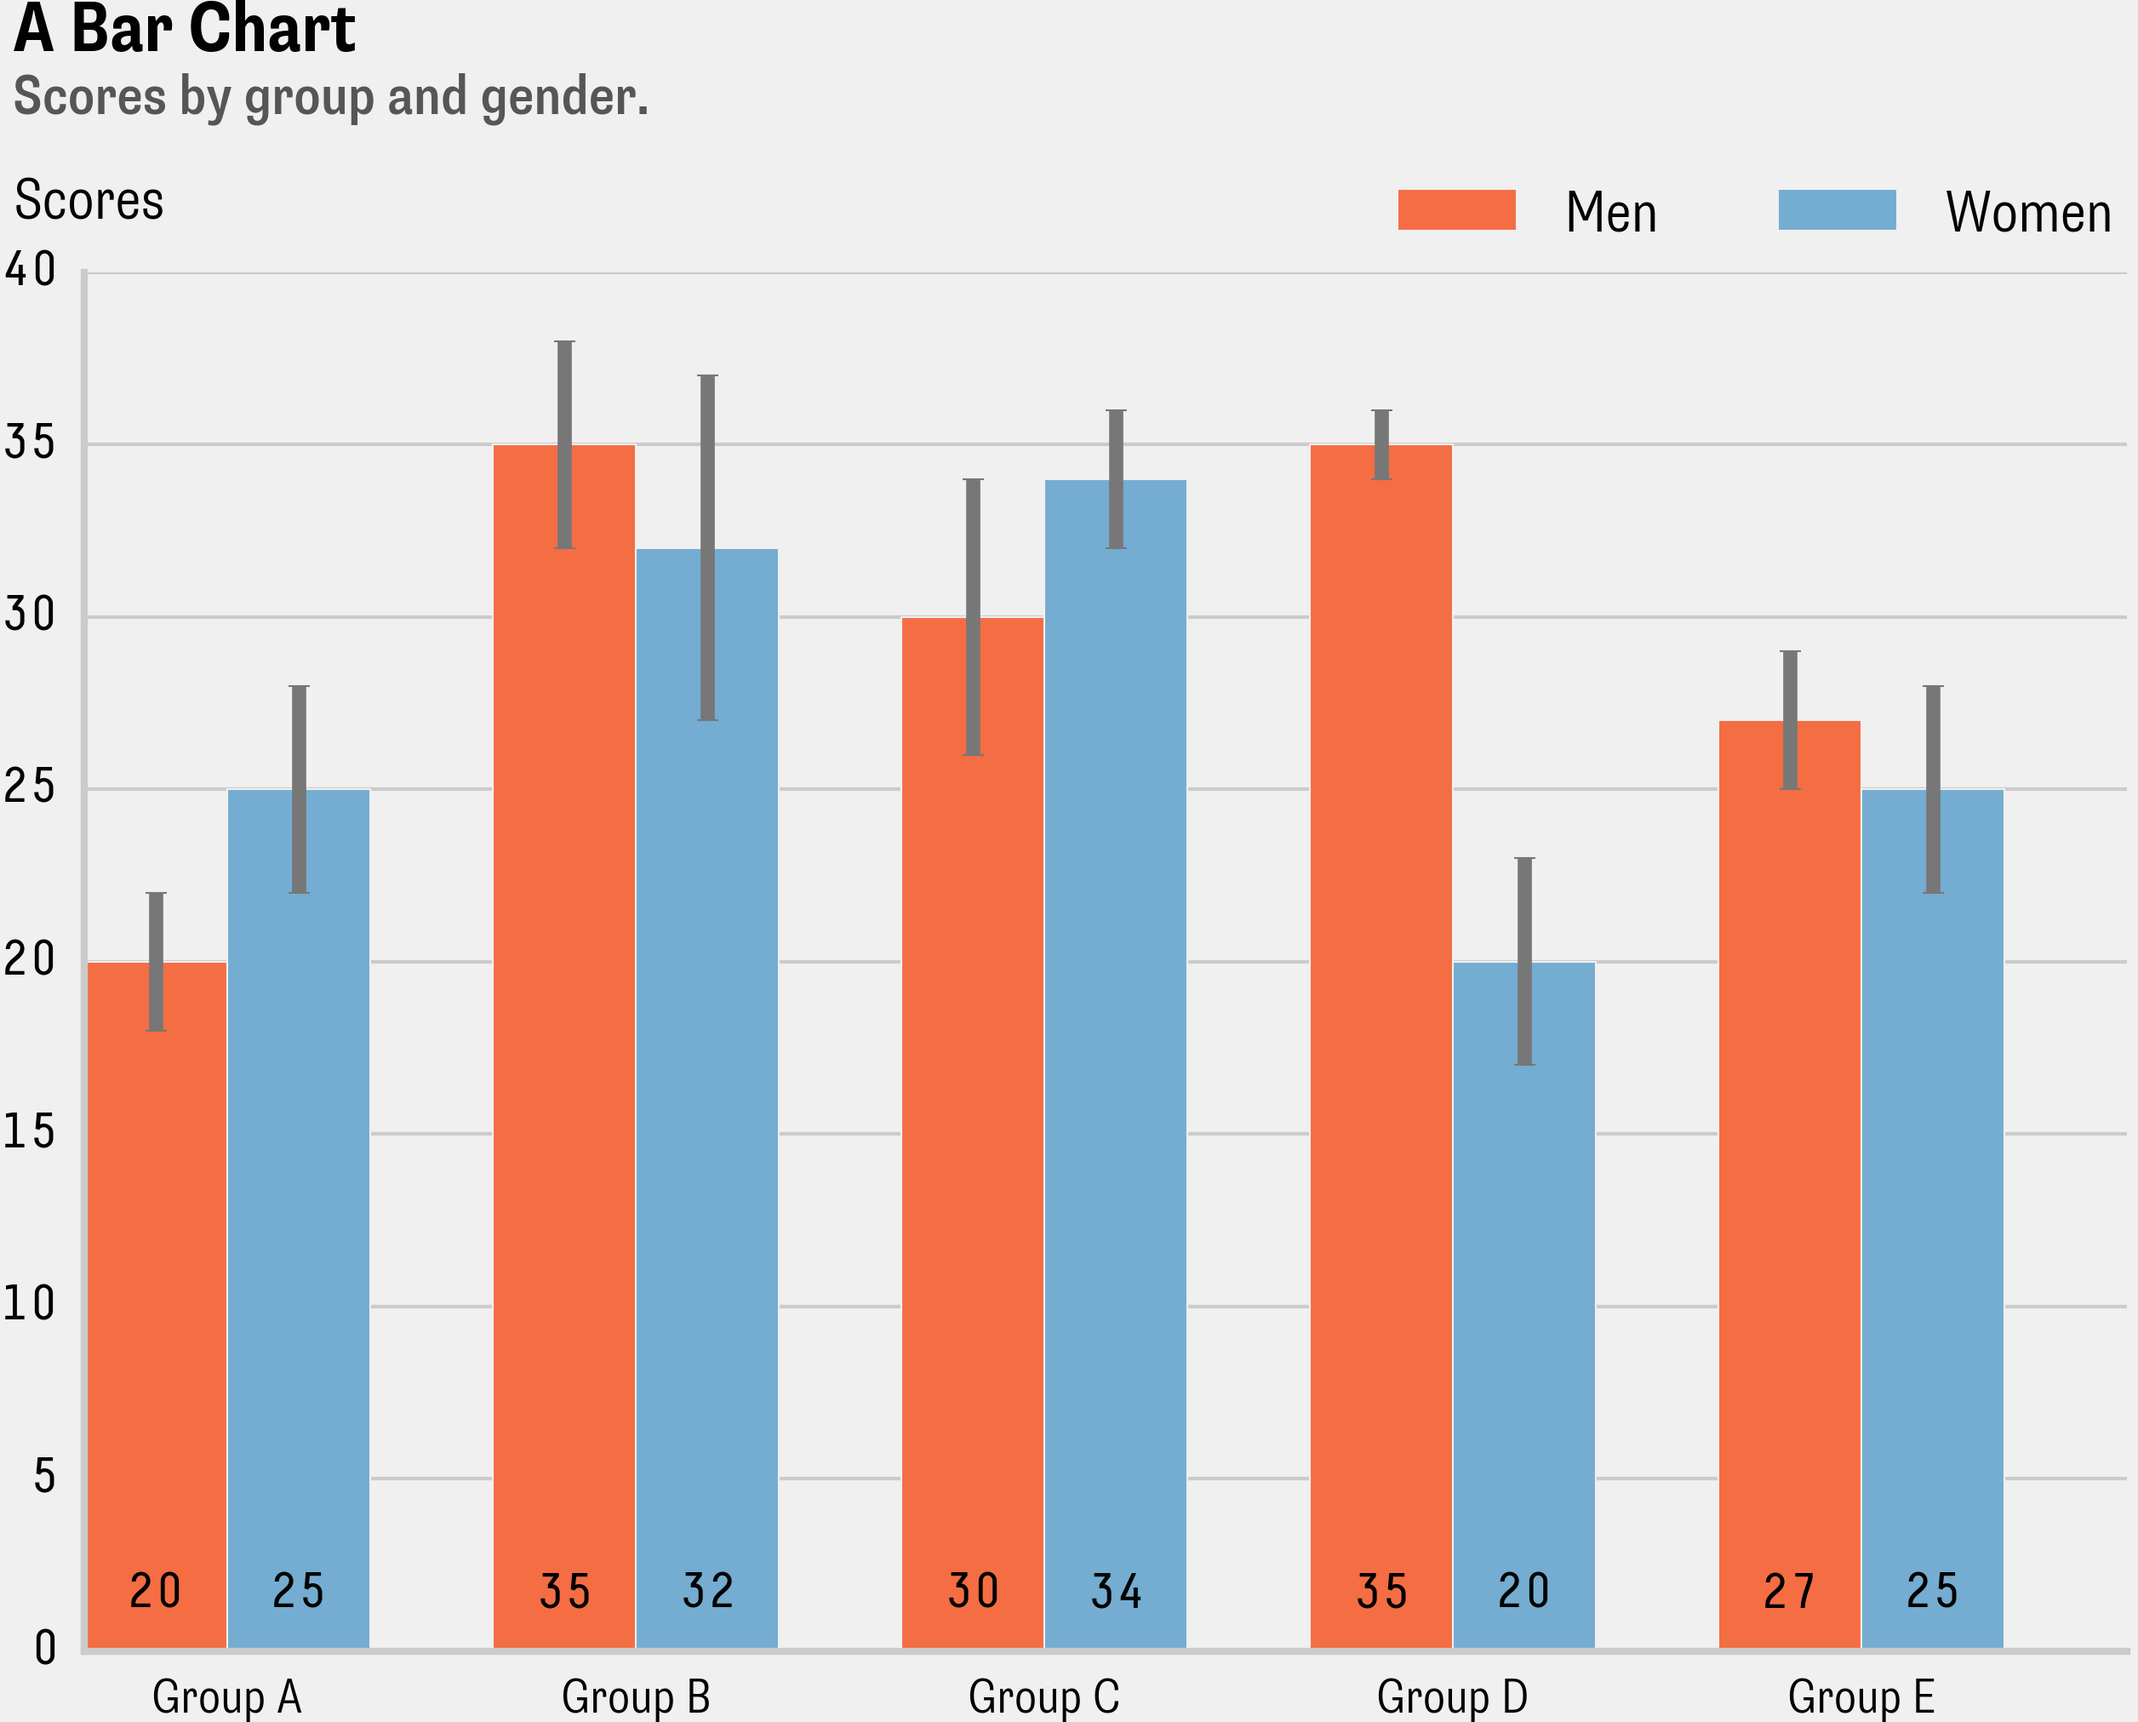
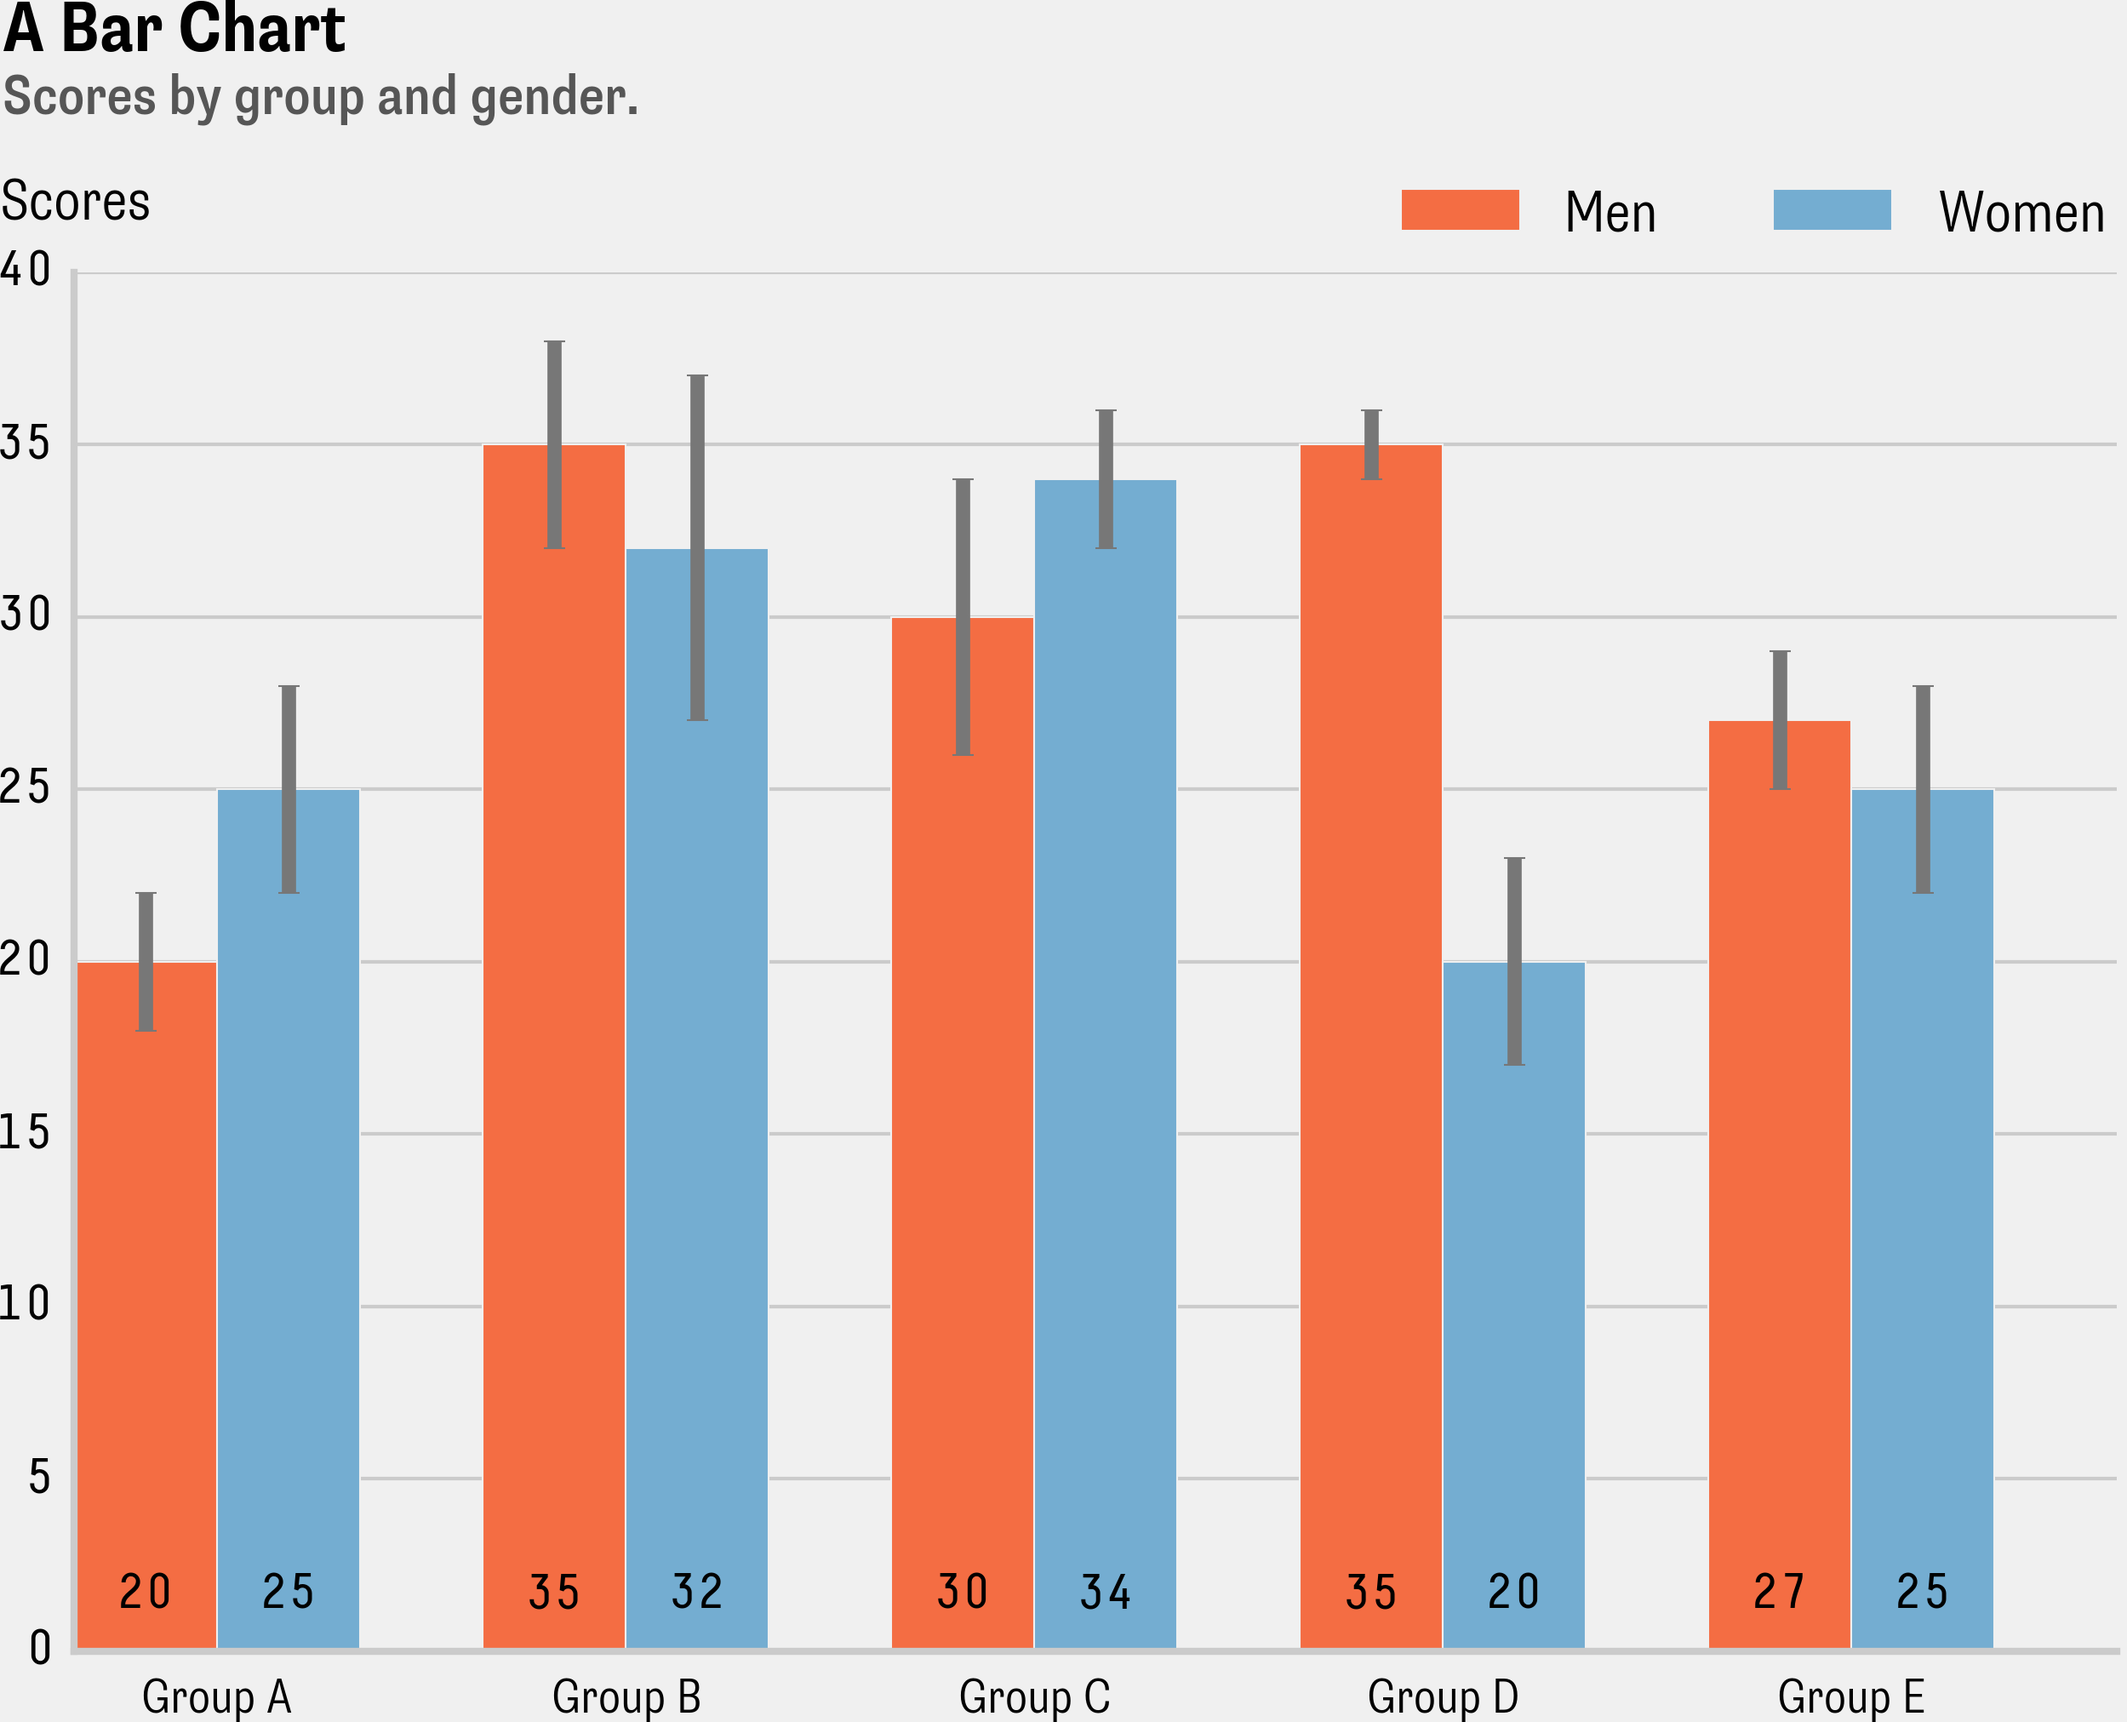
Put x offset in variable.

diff --git a/barchart.py b/barchart.py
@@ -9,12 +9,13 @@ NAME = "barchart"
 ticks_font = font_manager.FontProperties(family='Decima Mono')
 plt.style.use(['./ethplot.mplstyle'])
 
+LEFT = -0.035
 fig, ax = plt.subplots()
 fig.suptitle('A Bar Chart',
              horizontalalignment='left',
              weight='bold', fontsize=20,
-             x=-0.035, y=1.078)
-fig.text(-0.035, 1.0041, "Scores by group and gender.",
+             x=LEFT, y=1.078)
+fig.text(LEFT, 1.0041, "Scores by group and gender.",
          horizontalalignment='left',
          weight='medium', fontsize=16, color='#555555')
 
@@ -34,7 +35,7 @@ rects2 = ax.bar(ind+width, womenMeans, width, yerr=womenStd, color=colors[-2], e
 
 # add some text for labels, title and axes ticks
 ax.set_ylabel('Scores', rotation='horizontal', horizontalalignment='left')
-ax.yaxis.set_label_coords(-0.035, 1.03)
+ax.yaxis.set_label_coords(LEFT, 1.03)
 ax.spines['top'].set_visible(False)
 ax.spines['right'].set_visible(False)
 ax.get_xaxis().tick_bottom()

diff --git a/lineplot.py b/lineplot.py
@@ -9,12 +9,13 @@ plt.style.use(['./ethplot.mplstyle'])
 
 fig = plt.figure()
 
+LEFT = -0.035
 
 fig.suptitle('Key-value System Throughput',
              horizontalalignment='left',
              weight='bold', fontsize=20,
-             x=-0.035, y=1.078)
-fig.text(-0.035, 1.0041, "While increasing the amount of SET requests.",
+             x=LEFT, y=1.078)
+fig.text(LEFT, 1.0041, "While increasing the amount of SET requests.",
          horizontalalignment='left',
          weight='medium', fontsize=16, color='#555555')
 
@@ -22,7 +23,7 @@ ax1 = fig.add_subplot(1, 1, 1)
 ax1.set_xlabel('SET rate [%]')
 ax1.set_ylabel('Requests / s', rotation
                ='horizontal', horizontalalignment='left')
-ax1.yaxis.set_label_coords(-0.035, 1.03)
+ax1.yaxis.set_label_coords(LEFT-0.005, 1.03)
 ax1.spines['top'].set_visible(False)
 ax1.spines['right'].set_visible(False)
 ax1.get_xaxis().tick_bottom()

diff --git a/heatmap_colorized.py b/heatmap_colorized.py
@@ -24,11 +24,12 @@ def heatmap(name, data, title, text):
     fig, ax = plt.subplots()
     ticks_font = font_manager.FontProperties(family='Decima Mono')
     plt.style.use(['ethplot.mplstyle'])
+    LEFT = 0.125
     fig.suptitle(title,
              horizontalalignment='left',
              weight='bold', fontsize=20,
-             x=0.125, y=1)
-    t = fig.text(0.125, 0.92, text,
+             x=LEFT, y=1)
+    t = fig.text(LEFT, 0.92, text,
                  horizontalalignment='left',
                  weight='medium', fontsize=16, color='#555555')
 

diff --git a/heatmap.py b/heatmap.py
@@ -11,11 +11,12 @@ def heatmap(name, data, title, text):
     plt.style.use(['ethplot.mplstyle'])
     #savefig.pad_inches: 0.08
 
+    LEFT = 0.125
     fig.suptitle(title,
              horizontalalignment='left',
              weight='bold', fontsize=20,
-             x=0.125, y=1)
-    t = fig.text(0.125, 0.92, text,
+             x=LEFT, y=1)
+    t = fig.text(LEFT, 0.92, text,
                  horizontalalignment='left',
                  weight='medium', fontsize=16, color='#555555')
 
